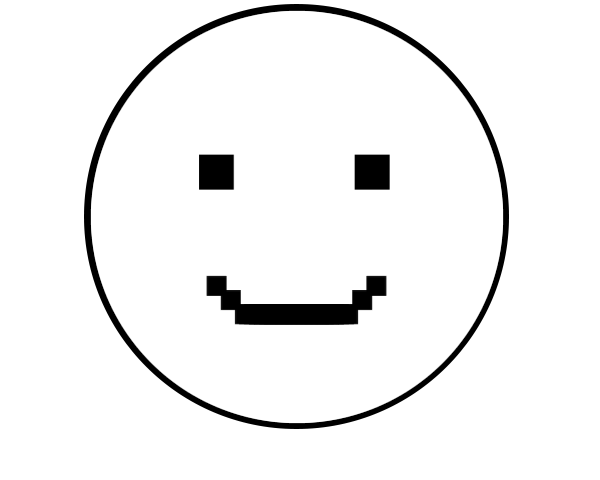
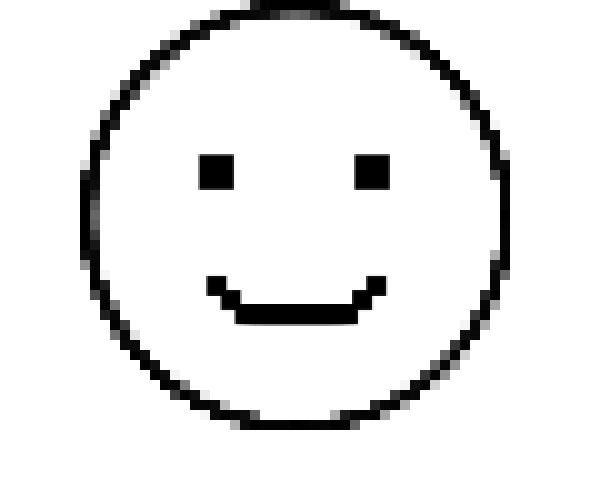
Edit images to be pixelated and edit README

diff --git a/README.md b/README.md
@@ -2,7 +2,7 @@
 
 Task
 ----
-A Tamagotchi-style app written in Javascript.
+A Tamagotchi-style app written in Javascript with jQuery.
 
 
 Instructions/Installation guide
@@ -17,42 +17,71 @@ $ open SpecRunner.html
 User Stories
 ------------
 ```
-As a user
+As a player
 So that I know how my pet is doing
 I want to be able to see my pet’s health
 
-As a user
+As a player
 When my pet is hungry
 I want to be able to feed my pet
 
-As a user
+As a player
 So that I can have fun with my pet
 I want to be able to play with my pet
 
-As a user
+
+Bonus user story features:
+
+As a player
 So that I can call my pet something
 I want to be able to give my pet a name
 
-As a user
+As a player
 When my pet is tired
 I want to be able to let my pet sleep
 
-As a user
+As a player
 So that I can nurse my pet when it gets sick
 I want to be able to heal my pet
 
-As a user
+As a player
 When my pet gets dirty
 I want to be able to clean my pet
 ```
 
+Features
+--------
+* You can feed Tamamon
+* You can play with Tamamon
+* Tamamon bounces by default with a happy face
+* When fed, a feeding animation is shown
+* When played with, a play animation is shown
+* When full or tired, a shaking head animation is shown
+* Energy messages change depending on Tamamon's energy levels
+* Energy number changes in color depending on the number
+
 Screenshots
 -----------
-< screenshots with descriptions soon >
+Default energy for Tamamon is 10:
+![Imgur](http://i.imgur.com/rafbVxN.png)
+
+When you feed Tamamon:
+![Imgur](http://i.imgur.com/w7ccqJh.png)
+
+When Tamamon is full of energy and you try to feed it:
+![Imgur](http://i.imgur.com/M6ZGagt.png)
+
+When you play with Tamamon:
+![Imgur](http://i.imgur.com/G0IebTN.png)
+
+When Tamamon has no energy and you try to play with it:
+![Imgur](http://i.imgur.com/nD91Y9X.png)
 
 Web-link
 --------
-< website link to play Tamamon soon >
+< website link to play Tamamon coming soon >
 
 Additional Comments
 -------------------
+Bonus features still to be incorporated into the app.
+Watch this space!
